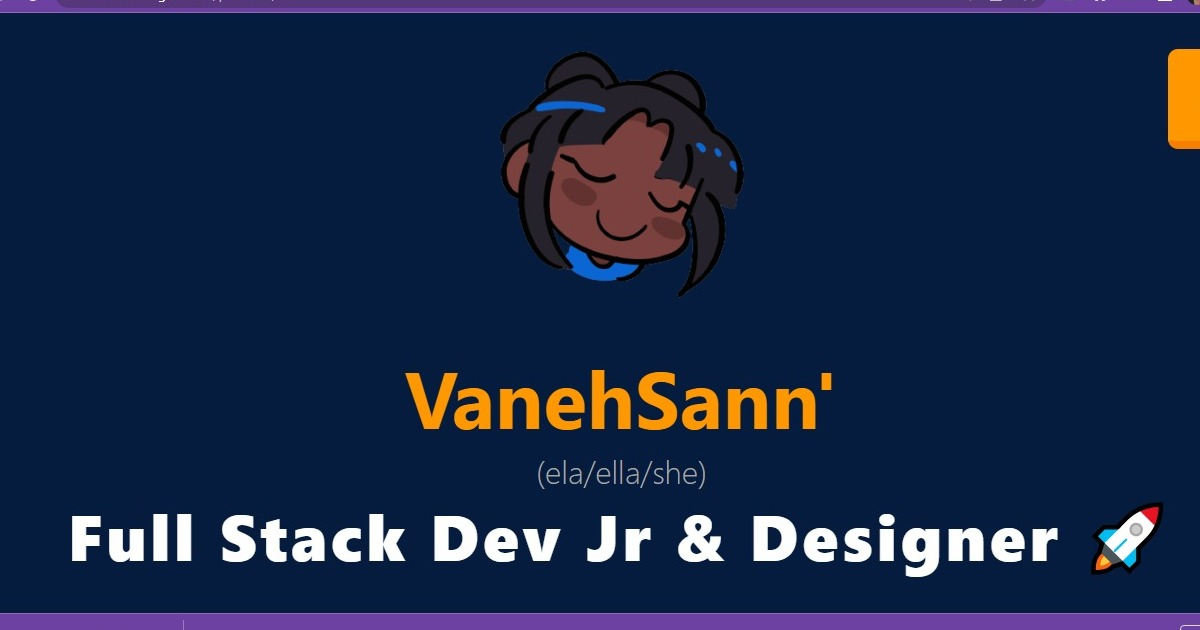
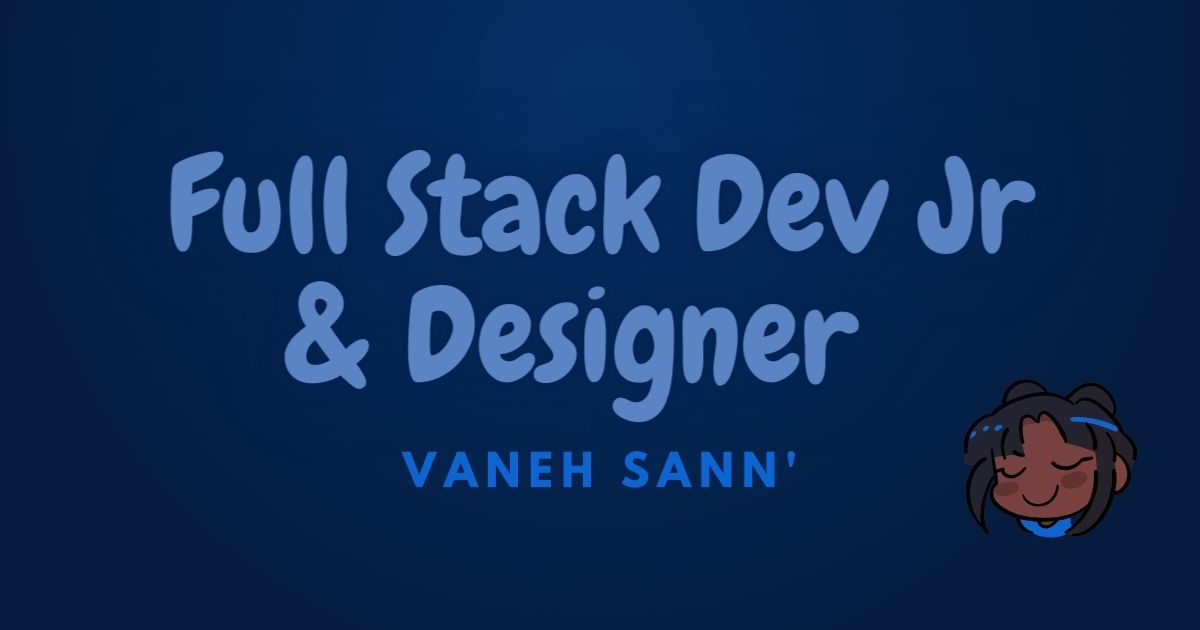
feat: fix meta tags, changes og:images

diff --git a/index.html b/index.html
@@ -5,19 +5,14 @@
     <title>Vaneh Sann' • Full Stack Dev Jr & Designer 🚀</title>
     <meta name="author" content="Vaneh Sann' • Full Stack Dev Jr & Designer 🚀" />
     <meta name="viewport" content="width=device-width, initial-scale=1.0">
-    <meta name="description"
-        content="Welcome to my personal portfolio website! I'm excited to showcase my journey as a passionate developer and share my projects and achievements with you. This website serves as a central hub where you can explore my skills, experiences, and contributions in the world of technology.">
-    <meta name="keywords"
-        content="vanehsann_profile, vanessasantos, vanessa, santos, vaneh, sann', sann, vanehsann-portfolio, css, html, website, opensource, programming, js, frontend, portfolio, webdevelopment, webdesign, htmlcss, softwaredevelopment, coding-projects, portfolio-website, portfolio-pessoal, codingprojects, vanehsann">
     <meta property="og:locale" content="pt_BR" />
-    <meta name="image" content="assets/images/og.jpg">
     <meta property="og:type" content="website">
-    <meta property="og:title" content="VanehSann' • Full Stack Dev Jr & Designer 🚀">
-    <meta property="og:image" content="assets/images/og.jpg">
-    <meta property="og:image:alt" content="VanehSann' • Full Stack Dev Jr & Designer 🚀">
+    <meta property="og:title" content="Vaneh Sann' • Full Stack Dev Jr & Designer 🚀">
     <meta property="og:description"
         content="Welcome to my personal portfolio website! I'm excited to showcase my journey as a passionate developer and share my projects and achievements with you. This website serves as a central hub where you can explore my skills, experiences, and contributions in the world of technology.">
-    <meta property="og:url" content="https://vanehsann.github.io/portfolio">
+    <meta property="og:url" content="https://vanehsann.github.io/portfolio/">
+    <meta property="og:image" content="https://vanehsann.github.io/portfolio/assets/images/og.jpg">
+    <meta property="og:image:alt" content="Vaneh Sann' • Full Stack Dev Jr & Designer 🚀">
     <link rel="icon" type="image/png" href="assets/images/heart.png" sizes="32x32">
     <link href="assets/fonts/fontawesome/css/all.css" rel="stylesheet">
     <link href="assets/styles/style.css" rel="stylesheet">
@@ -237,9 +232,9 @@
     </section>
     <footer>
         <p> Desenvolvido por <span>@vanehsann</span> utilizando HTML, CSS e JavaScript. Hospedado pelo Github Pages.
-            Fonte de texto System-ui. <a href="https://www.flaticon.com/free-icons/heart" target="_blank"
+            Fonte de texto System-ui. <!-- <a href="https://www.flaticon.com/free-icons/heart" target="_blank"
                 title="heart icons">Heart
-                icons created by kmg design - Flaticon</a>.<br />
+                icons created by kmg design - Flaticon</a> -->.<br />
             &copy; Copyrights 2023. Todos os direitos reservados. Versão 1.0.</p>
     </footer>
 
